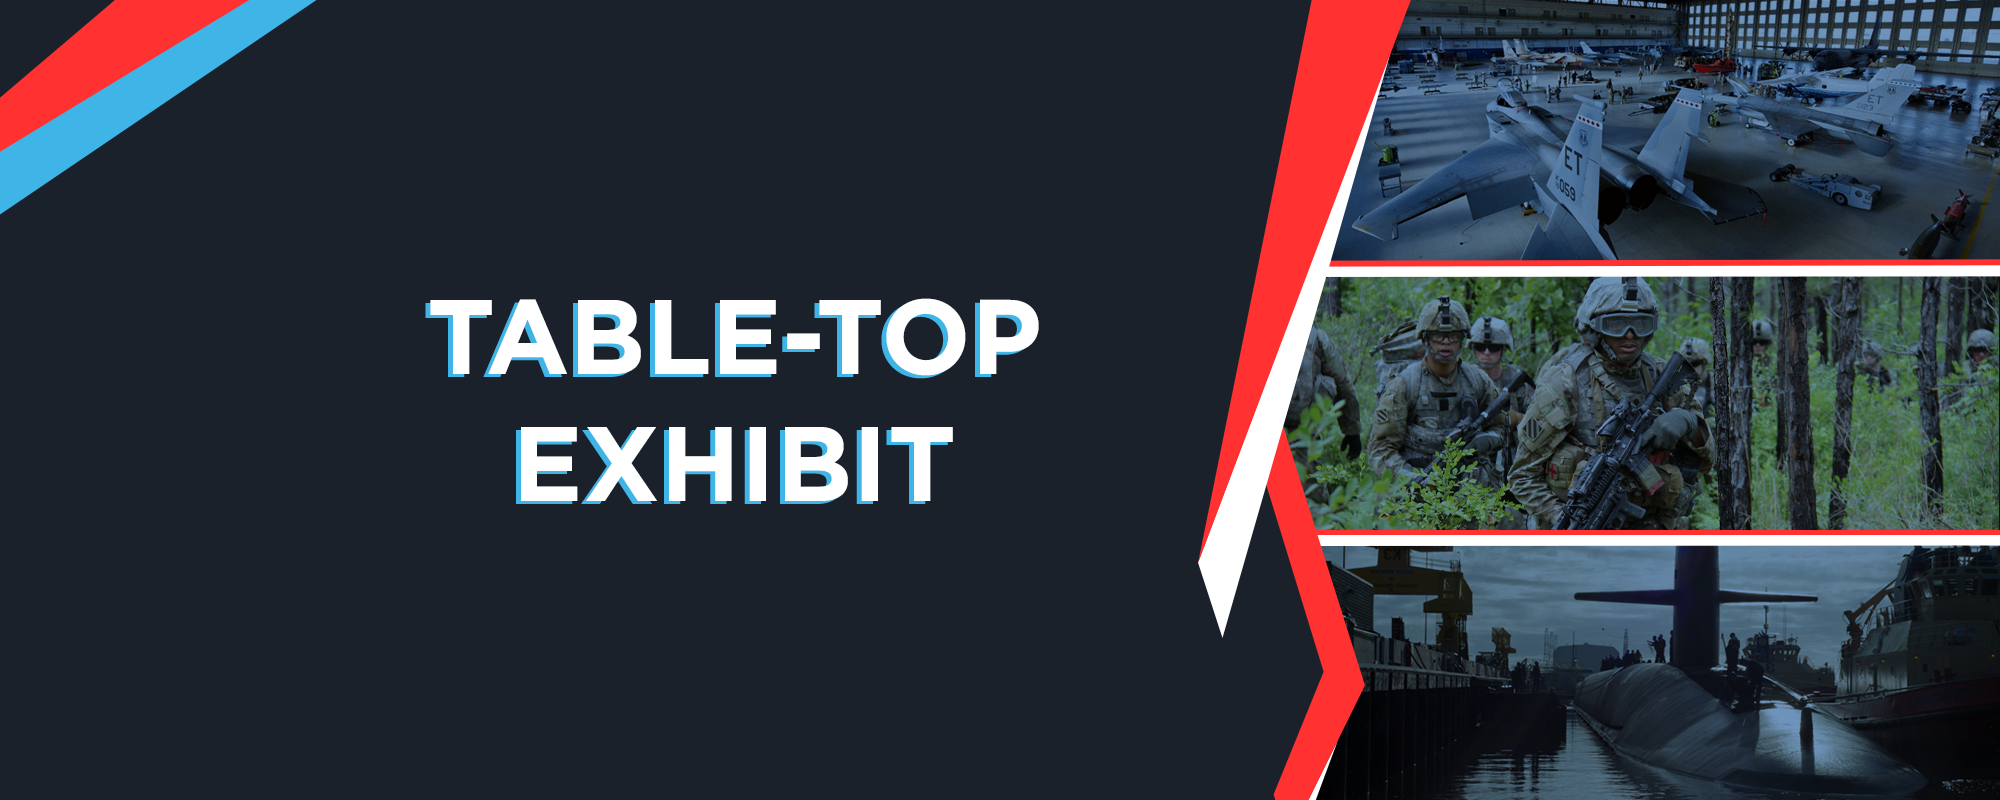
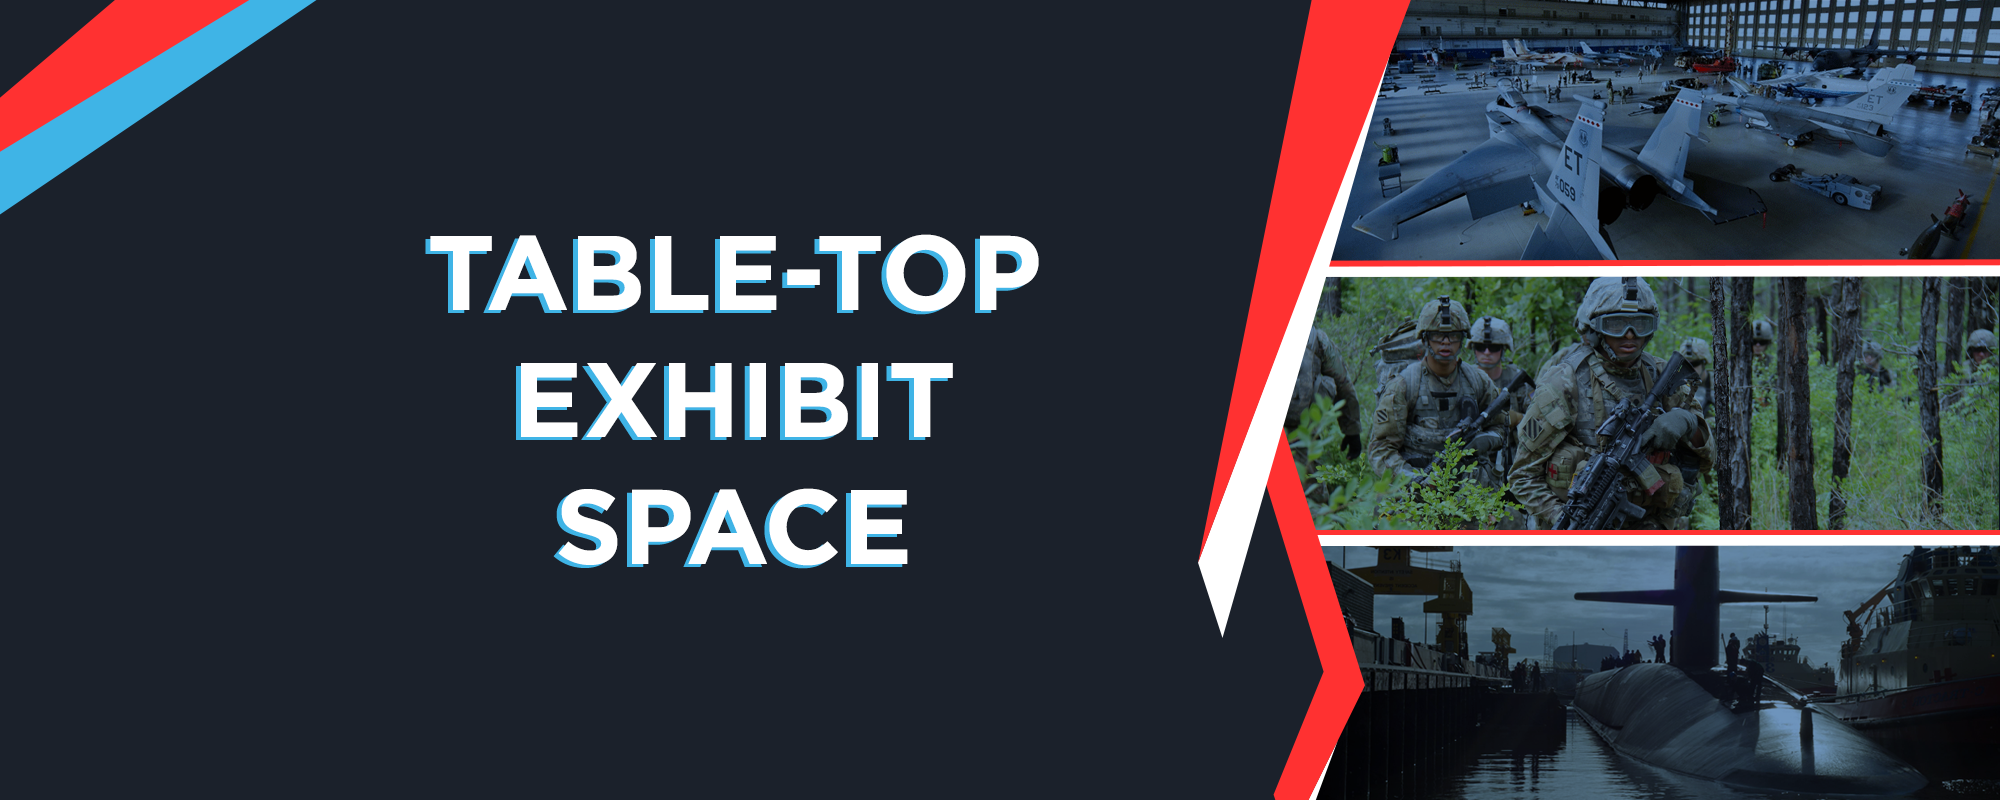
Updated home page text & layout, and about-the-event text & layout

Changed region(s): [[0.217, 0.2812, 0.527, 0.7188]]

diff --git a/src/constants/events.tsx b/src/constants/events.tsx
@@ -123,20 +123,22 @@ export const EVENTS = [
     eventText: (
       <div className="max-container font-light">
         <p className="mb-4 leading-9">
-          Join us for the 2025 Southeast Defense Procurement Conference, a premier gathering designed to equip businesses with essential insights into defense procurement across the Southeastern United States—from North Carolina to Mississippi. This conference focuses on current and upcoming purchasing requirements and contracting opportunities that can drive your business forward. <br /><br /> You will hear from representatives at multiple Air Force Bases located in Florida, Georgia, and throughout the Southeast, as well as Marine Corps facilities in North and South Carolina, including the Blount Island Logistic Support Facility. Key Army installations such as Ft. Liberty, the Army Anniston Depot, and Redstone Arsenal will also be featured, alongside the Army Corps of Engineers’ District Headquarters in Mobile, Savannah, Charleston, Jacksonville, and Wilmington. Additionally, NAVFAC's 22 Field Offices and Public Works Departments across the region will provide vital insights, along with Navy facilities like King’s Bay Naval Sub Base and various Naval Air Stations, including those in Pensacola, Jacksonville, and Key West. Major commands such as CENTCOM, SOUTHCOM, AFSOC, SOCSOUTH, and SPACECENT will be represented as well.
+          Join us for the <b>2025 Southeast Defense Procurement Conference</b> on March 18-19, 2025 in Atlanta, Georgia — a pivotal event designed to empower businesses with crucial insights into Defense Procurement across the Southeastern United States, from North Carolina to Mississippi. This conference will spotlight current and future purchasing requirements and contracting opportunities that can empower your business to new levels of success.
+          <br/><br/>
+          Engage with Key Representatives from multiple Air Force Bases in Florida, Georgia and throughout the Southeast, as well as Marine Corps facilities in North and South Carolina, including the Blount Island Logistic Support Facility. Discover vital information from prominent Army Installations like Ft. Liberty, Ft. Moore, the Army Anniston Depot, and Redstone Arsenal, as well as insights from the Army Corps of Engineers' District Headquarters in Mobile, Savannah, Charlestone, Jacksonville, and Wilmington. Gain essential knowledge from NAVFAC's 22 Field Officers and Public Works Departments, and connect with Navy Facilities, including King's Bay Naval Sub Base and Naval Air Stations in Pensacola, Jacksonville, and Key West. Major Commands such as CENTCOM, SOUTHCOM, AFSOC, SOCSOUTH, and SPACECENT will also be represented. Don't miss this opportunity to elevate your business in the Defense Sector!
         </p>
         <h2 className="text-2xl sm:text-3xl lg:text-4xl font-bold text-center font-gotham text-slate-700 mt-6 mb-2">
           What to Expect
         </h2>
         <p className="mb-4">
-          Attendees will have the unique opportunity to engage directly with key decision-makers, including Program Managers, Contracting Officers, and Small Business Program Directors from the Army, Navy, Air Force, Marine Corps, Space Force Commands, and leading Prime Defense Contractors.
+        Attendees will gain unparalleled access to key decision-makers, including Program Managers, Contracting Officers, and Small Business Program Directors from the Army, Navy, Air Force, Marine Corps, Space Force Commands, and top Prime Defense Contractors. This is your chance to forge invaluable connections that can shape the future of your business.
         </p>
-        <h2 className="text-2xl sm:text-3xl lg:text-4xl font-bold text-center font-gotham text-slate-700 mt-6 mb-2">
+        {/* <h2 className="text-2xl sm:text-3xl lg:text-4xl font-bold text-center font-gotham text-slate-700 mt-6 mb-2">
           Why Attend?
         </h2>
         <p>
           This event is an invaluable opportunity to network with industry leaders, gain insights into emerging trends, and position your business for success in the competitive defense contracting landscape. Don’t miss out on the chance to be at the forefront of defense procurement. Secure your spot today!
-        </p>
+        </p> */}
       </div>
     ),
     topicalCoverage: [

diff --git a/src/constants/registrations.ts b/src/constants/registrations.ts
@@ -103,7 +103,7 @@ export const REGISTRATION_TYPES = [
                 perks: [
                     "(1) Attendee Pass",
                     "Access to General Sessions",
-                    "Access to Exhibits",
+                    "Access to Exhibit Area",
                     "Onsite Sign-up for Matchmaking Sessions",
                     "Breakfast & Buffet Lunch",
                     "Post-Event Access to Photos, Videos, and Speaker Presentation Slides",
@@ -124,11 +124,11 @@ export const REGISTRATION_TYPES = [
                 perks: [
                     "(1) VIP Attendee Pass",
                     "Access to General Sessions",
-                    "Access to Exhibits",
+                    "Access to Exhibit Area",
                     "Onsite Sign-up for Matchmaking Sessions",
                     "Breakfast & Buffet Lunch",
                     "Post-Event Access to Photos, Videos, and Speaker Presentation Slides",
-                    "<b>Access to VIP Networking Reception on March 18th, 2025 from 5:30 PM - 7:30 PM</b>",
+                    "<b>Access to VIP Networking Reception on March 18, 2025 from 5:30 PM - 7:30 PM</b>",
                 ],
                 subtitle: "Includes:",
                 buttonText: "Register Now",
@@ -144,10 +144,10 @@ export const REGISTRATION_TYPES = [
                 headerImage: "/registration-cards/2025SPDC/exhibit-table-pass.png",
                 perks: [
                     "(1) Exhibitor Pass",
-                    "(1) VIP Networking Reception Pass",
-                    "Additional Exhibitor Passes can be purchased at a Discounted Rate of $395 each",
-                    "Table-Top Exhibit",
+                    "Additional Passes can be purchased for $395 each",
+                    "8'x10' Exhibit Space in Exhibit Area/Foyer. 6' Exhibit Table and 2 Chairs",
                     "Post-Event Access to Photos, Videos, and Speaker Presentation Slides",
+                    "<b>Access to VIP Networking Reception on March 18, 2025 from 5:30 PM - 7:30 PM</b>",
                 ],
                 subtitle: "Includes:",
                 buttonText: "Register Now",
@@ -164,7 +164,7 @@ export const REGISTRATION_TYPES = [
                 perks: [
                     "(1) Attendee Pass",
                     "Access to General Sessions",
-                    "Access to Exhibits",
+                    "Access to Exhibit Area",
                     "Onsite Sign-up for Matchmaking Sessions",
                     "Breakfast & Buffet Lunch",
                     "Post-Event Access to Photos, Videos, and Speaker Presentation Slides",
@@ -173,7 +173,7 @@ export const REGISTRATION_TYPES = [
                 buttonText: "Register Now",
                 buttonLink: "https://www.eventbrite.com/e/2025-southeast-defense-procurement-conference-tickets-997306910817",
                 type: "complimentary",
-                availabilityInfo: "Limited availability."
+                // availabilityInfo: "Limited availability."
             },
 
             // {

diff --git a/src/app/components/RegistrationOptions.tsx b/src/app/components/RegistrationOptions.tsx
@@ -47,13 +47,13 @@ const RegistrationOptions = ({ event }: RegistrationProps) => {
                 <h1 className="text-[48px] text-center font-gotham font-bold mb-2 text-slate-700">
                     Registration Options
                 </h1>
-                {isEarlyBird && (
+                {/* {isEarlyBird && (
                     <div className="bg-green-100 border border-green-400 text-green-700 px-4 py-3 rounded relative mb-6 text-xl mx-4 text-center" role="alert">
                         <strong className="font-bold">Early-bird pricing available!</strong>
-                        {/* <span className="block sm:inline"> Register before {deadlineDate}.</span> */}
+                        <span className="block sm:inline"> Register before {deadlineDate}.</span>
                     </div>
                 )}
-
+                */}
                 {/* {complimentaryRegistrations.length > 0 && (
                     <div className="w-full max-w-2xl mb-12">
                         <h2 className="text-3xl font-bold text-center mb-6">Complimentary Registrations</h2>
@@ -102,7 +102,7 @@ const RegistrationOptions = ({ event }: RegistrationProps) => {
 
                     <div className="bg-gradient-to-r from-navy-500 to-navy-800 text-white p-6 rounded-lg mb-6">
                         <p className="text-center mb-4">
-                            Enhance your visibility and connect with key decision makers through our exclusive sponsorship opportunities
+                        Enhance your Visibility and Connect with Key Decision-Makers through our Exclusive Sponsorship Opportunities. This is your chance to elevate your brand and make a lasting impact in the Defense Sector.
                         </p>
                         <Link href={`/events/${event.slug}/sponsors-exhibitors/sponsorship-opportunities`}>
                             <button className="w-full py-3 px-6 bg-blue-500 hover:bg-blue-600 text-white rounded-md transition duration-300 flex items-center justify-center">
@@ -115,7 +115,7 @@ const RegistrationOptions = ({ event }: RegistrationProps) => {
                     <div className="text-center">
                         <div className="flex items-center justify-center text-gray-600 mb-2">
                             <Mail className="w-5 h-5 mr-2" />
-                            <p className="font-medium">Contact our sponsorship team:</p>
+                            <p className="font-medium">Contact our Sponsorship Team:</p>
                         </div>
                         <a
                             href="mailto:marketing@americandefensealliance.org"

diff --git a/src/app/events/[slug]/page.tsx b/src/app/events/[slug]/page.tsx
@@ -94,7 +94,7 @@ export default function EventPage({ params }: { params: { slug: string } }) {
       </Script>
       <div className="max-w-7xl mx-auto px-4 sm:px-6 lg:px-8">
         <div className="flex flex-col items-center">
-          <div className="py-4 sm:py-8 flex flex-col items-center">
+          <div className="py-2 sm:py-2 flex flex-col items-center">
             {/* <Link href="/events" className="inline-flex items-center text-blue-500 hover:underline mb-4">
           <ChevronLeft className="w-4 h-4 mr-1" />
           Back to Events
@@ -118,7 +118,7 @@ export default function EventPage({ params }: { params: { slug: string } }) {
 
 
             <h2 className="text-3xl sm:text-4xl lg:text-5xl font-bold text-center font-gotham text-slate-700 mb-6">
-              Event Info
+              Event Overview
             </h2>
             <div className="flex flex-col leading-relaxed text-slate-600 text-lg text-center mx-8">
               {event.eventText}
@@ -128,13 +128,13 @@ export default function EventPage({ params }: { params: { slug: string } }) {
 
             <RegistrationOptions event={event} />
 
-            <div className="mt-12 text-center w-[80%] max-w-sm">
-              <p className="text-2xl text-navy-500 mb-6 w-fit text-center mx-8">Don't miss this event, register now!</p>
+            <div className="mt-12 text-center flex flex-col items-center">
+              <p className="text-2xl text-navy-500 mb-6 text-center mx-8">Act Now and Secure your Seat at this Groundbreaking Conference!</p>
               <Button
                 title="REGISTER"
                 variant="btn_blue"
                 link={event.registerLink}
-                className="w-full sm:w-auto"
+                className="max-w-xs sm:max-w-sm"
               />
             </div>
           </div>

diff --git a/src/app/events/[slug]/about/about-the-event/EventDetails.tsx b/src/app/events/[slug]/about/about-the-event/EventDetails.tsx
@@ -16,8 +16,8 @@ type EventProps = {
 const EventDetails: React.FC<EventProps> = ({ title, eventText, topicalCoverage, registerLink }) => {
   return (
     <div className="min-h-screen text-navy-800 text-center">
-      <div className="max-w-7xl mx-auto px-4 sm:px-6 lg:px-8 py-12 flex flex-col items-center">
-        <div className="bg-white/10 backdrop-blur-md rounded-xl p-8 mb-12 shadow-xl">
+      <div className="max-w-7xl mx-auto px-4 sm:px-6 lg:px-8 flex flex-col items-center">
+        <div className="bg-white/10 backdrop-blur-md rounded-xl p-4 mb-12 shadow-xl">
           <h2 className="text-2xl sm:text-3xl lg:text-4xl font-bold text-center font-gotham text-slate-700 mt-6 mb-2">
             About the Event
           </h2>
@@ -41,13 +41,13 @@ const EventDetails: React.FC<EventProps> = ({ title, eventText, topicalCoverage,
           </div>
         </div>
 
-        <div className="mt-16 text-center w-fit">
-          <p className="text-2xl text-navy-500 mb-6 w-fit text-center">Don't miss this groundbreaking event!</p>
+        <div className="mt-12 text-center flex flex-col items-center">
+          <p className="text-2xl text-navy-500 mb-6 text-center mx-8">Act Now and Secure your Seat at this Groundbreaking Conference!</p>
           <Button
             title="REGISTER"
             variant="btn_blue"
             link={registerLink}
-            className="w-full"
+            className="max-w-xs sm:max-w-sm"
           />
         </div>
       </div>
